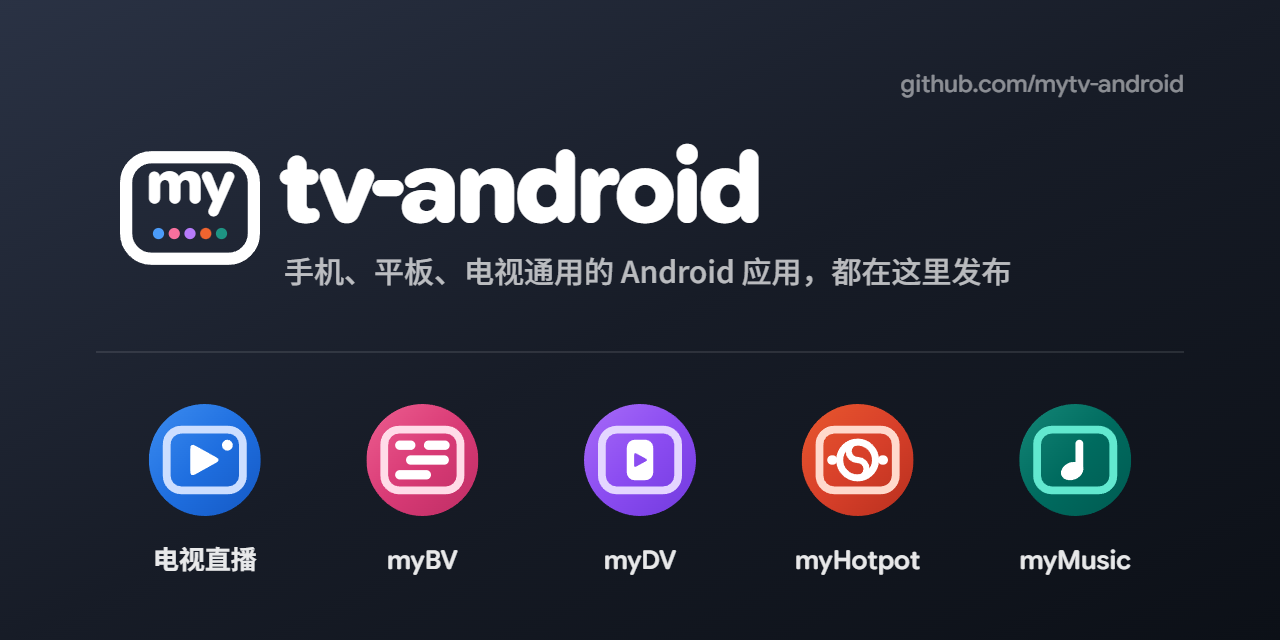
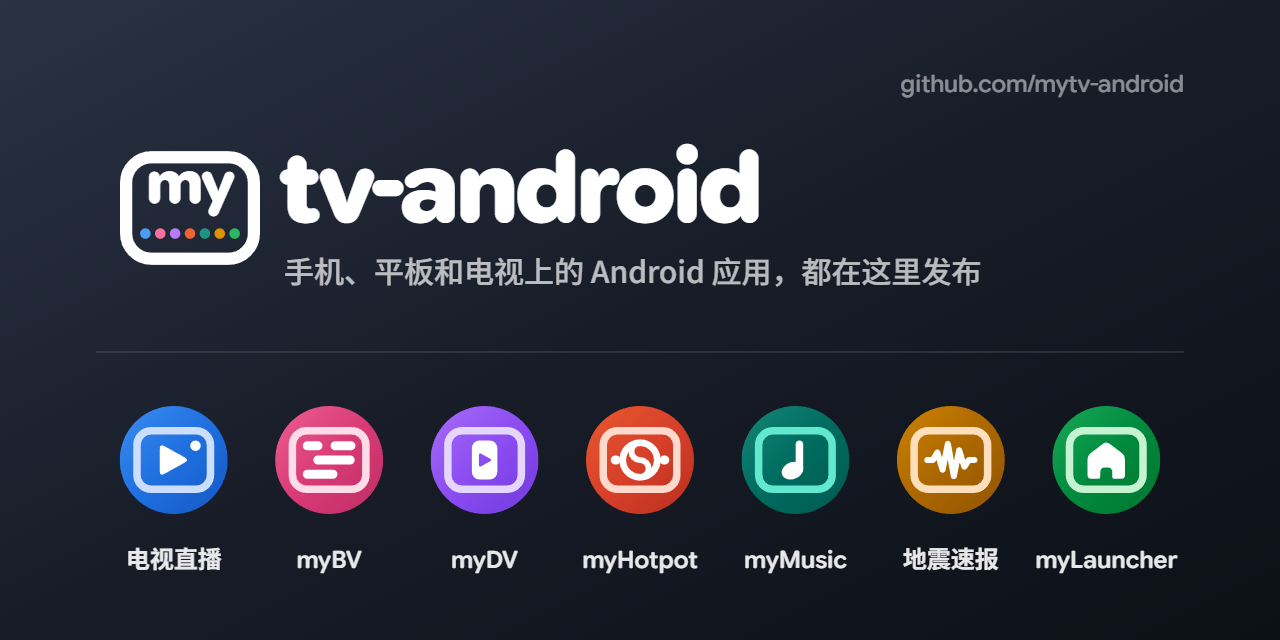
组织主页加入地震速报与 myLauncher：横幅七个应用、简介表格两行新图标
- 横幅与组织标识的色点由五个改为七个，标语改为“手机、平板和电视上的 Android 应用，都在这里发布”
- 简介注明 myLauncher 是电视桌面，只支持 Android TV

diff --git a/profile/README.md b/profile/README.md
@@ -2,7 +2,7 @@
   <img src="https://raw.githubusercontent.com/mytv-android/.github/main/profile/banner.png" alt="mytv-android" width="100%">
 </p>
 
-<p align="center">所有应用都支持手机、平板与 Android TV。</p>
+<p align="center">除了电视桌面 myLauncher，所有应用都支持手机、平板与 Android TV。</p>
 
 | | 应用 | 简介 | 下载 |
 |:-:|---|---|---|
@@ -11,3 +11,5 @@
 | <img src="https://raw.githubusercontent.com/mytv-android/.github/main/profile/icons/mydv_icon_512.png" width="48"> | [**myDV**](https://github.com/mytv-android/myDV) | 竖屏短视频客户端 | [Releases](https://github.com/mytv-android/myDV/releases/latest) |
 | <img src="https://raw.githubusercontent.com/mytv-android/.github/main/profile/icons/myhotpot_icon_512.png" width="48"> | [**myHotpot**](https://github.com/mytv-android/myHotpot) | 短剧播放器，追剧一锅涮 | [Releases](https://github.com/mytv-android/myHotpot/releases/latest) |
 | <img src="https://raw.githubusercontent.com/mytv-android/.github/main/profile/icons/mymusic_icon_512.png" width="48"> | [**myMusic**](https://github.com/mytv-android/myMusic) | 音乐客户端：搜索、歌单、歌词 | [Releases](https://github.com/mytv-android/myMusic/releases/latest) |
+| <img src="https://raw.githubusercontent.com/mytv-android/.github/main/profile/icons/myearthquakealert_icon_512.png" width="48"> | [**地震速报**](https://github.com/mytv-android/myEarthquakeAlert) | 地震预警：实时速报、悬浮窗预警、震中地图 | [Releases](https://github.com/mytv-android/myEarthquakeAlert/releases/latest) |
+| <img src="https://raw.githubusercontent.com/mytv-android/.github/main/profile/icons/mylauncher_icon_512.png" width="48"> | [**myLauncher**](https://github.com/mytv-android/myLauncher) | Android TV 桌面：主页、应用、小组件 | [Releases](https://github.com/mytv-android/myLauncher/releases/latest) |
